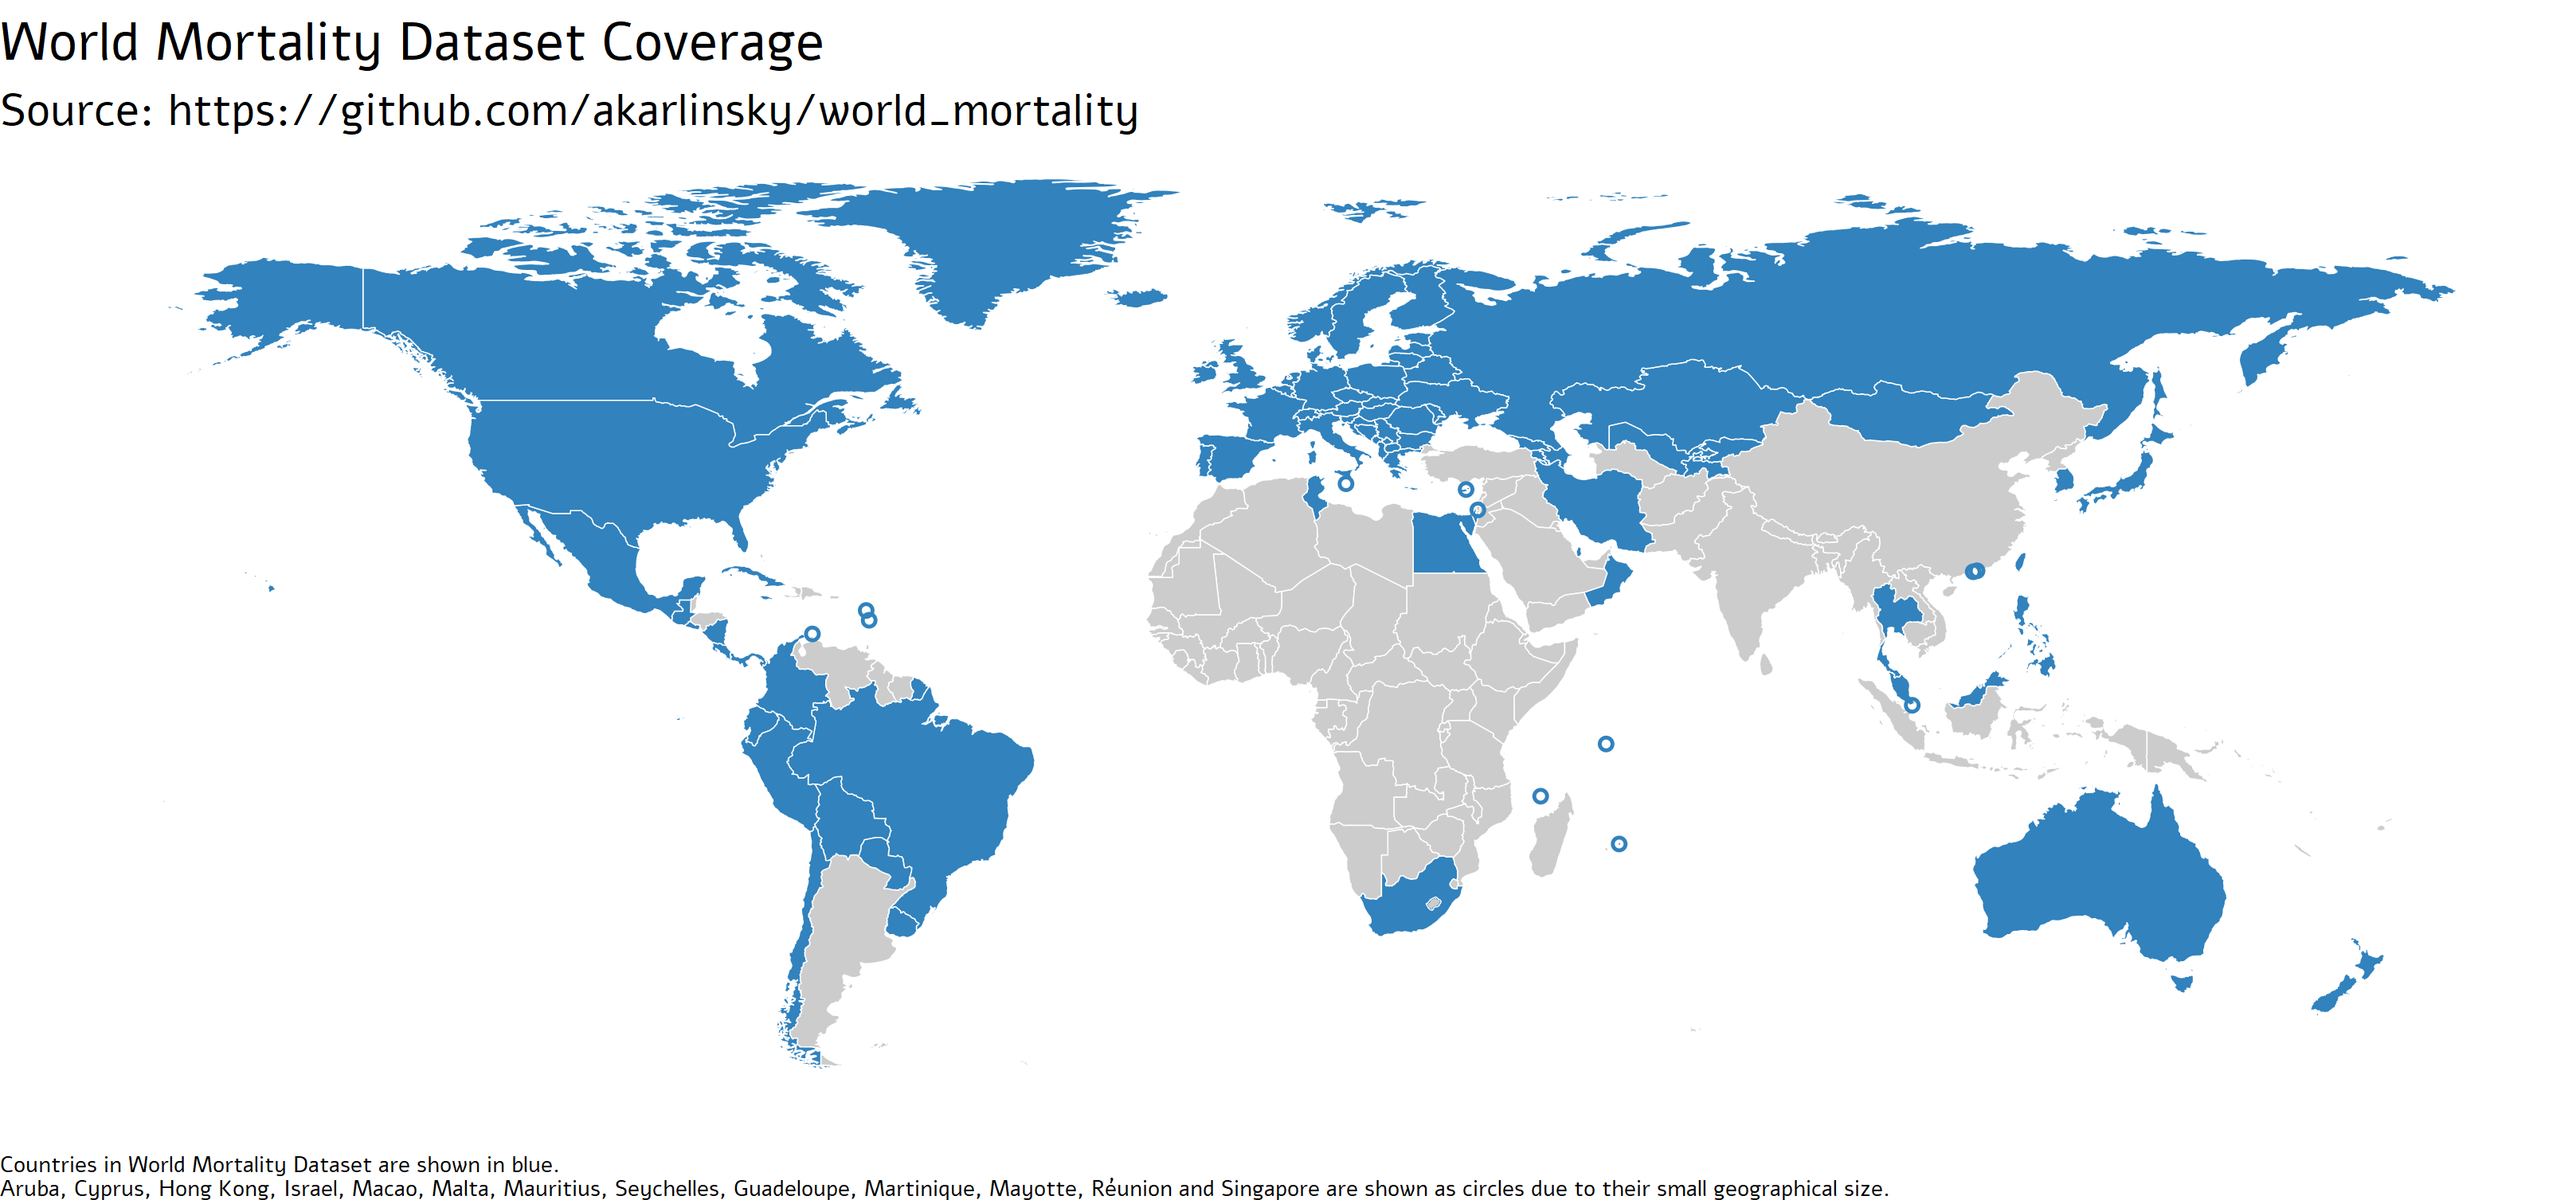
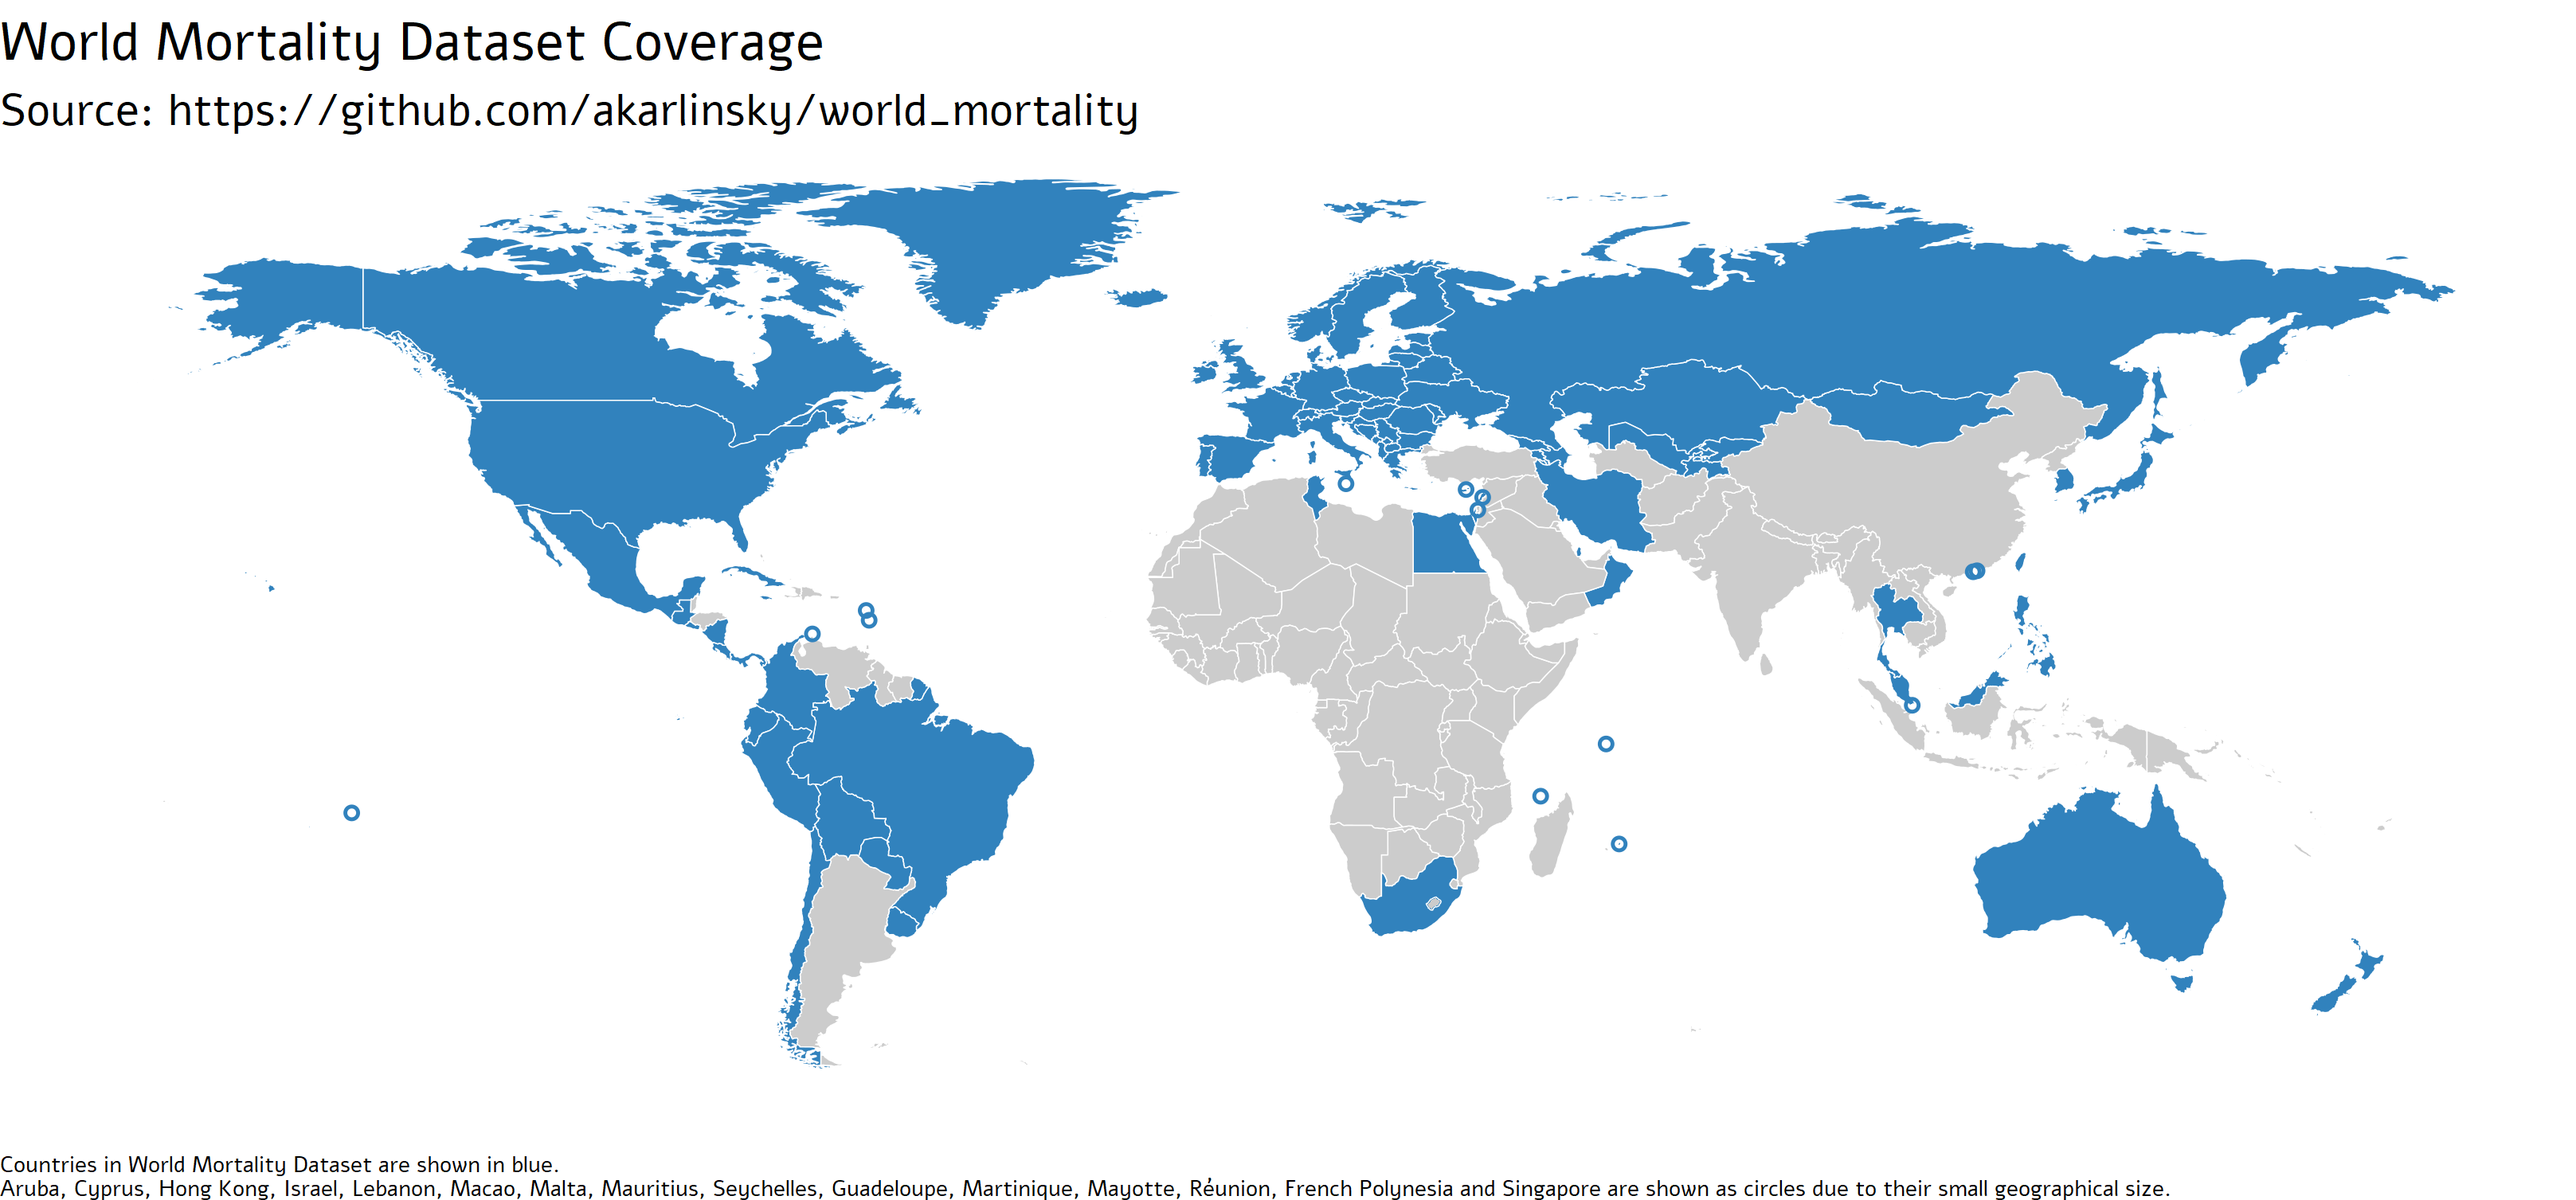
2021-06-29 Update
- New countries: French Polynesia, Lebanon.

- New data: Czechia, Finland, French Guiana, Guadeloupe, Israel, Martinique, Mayotte, Réunion, Transnistria.

- Revisions: Azerbaijan, French Guiana, Guadeloupe, Israel, Martinique, Mayotte, Paraguay, Réunion.

Changed region(s): [[0.1249, 0.9668, 0.8432, 1.0]]

diff --git a/README.md b/README.md
@@ -1,7 +1,7 @@
 # World Mortality Dataset
 
 This repository contains country-level data on all-cause mortality in 2015–2021 collected from various sources, see below.   
-We are currently providing data for 100 countries and territories.   
+We are currently providing data for 102 countries and territories.   
 We welcome any contributions.
 
 ![World Mortality coverage](coverage_map_title_fixed.png)
@@ -87,7 +87,7 @@ Aruba Central Bureau Of Statistics Quarterly Demographic Bulletin 2020: https://
 
 2015 crude death rates were transformed to mortality counts by using the UNDATA Mid-Year Population estimate for Azerbaijan 2015 which is 9,649,000.
 
-2021 Press release provides total deaths in January-February 2021. To transform to monthly counts, we dividied it by the ratio observed in 2020 between these two months. 
+2021 Press release provides total deaths in January-February 2021. To keep the data as monthly, we divided it equally between them. 
 
 ### Belarus (monthly)
 2015 to 2020: UNData - http://data.un.org/Data.aspx?d=POP&f=tableCode%3a65%3bcountryCode%3a112%3brefYear%3a2015%2c2016%2c2017%2c2018%2c2019%2c2020&c=2,3,6,8,10,12,13,14&s=_countryEnglishNameOrderBy:asc,refYear:desc,areaCode:asc&v=1
@@ -168,6 +168,11 @@ https://www.capmas.gov.eg/Pages/Publications.aspx?page_id=5104&Year=23595
 2015 to 2020: Public Information Request by [LAB-DAT](https://lab-dat.com/) from [RNPN](https://www.rnpn.gob.sv/)
 
 
+### French Polynesia (monthly)
+2017 to 2020: https://unstats.un.org/unsd/mbs/app/DataView.aspx?tid=3&cid=258&yearfrom=2015&yearto=2021&p=A
+Crude death rates were transformed to mortality counts by using the respective UNDATA Mid-Year Population estimates. 
+
+
 ### Georgia (monthly)
 2015-2020: Georgia National Office of Statistics (GEOSTAT): https://www.geostat.ge/en/modules/categories/320/deaths  
 
@@ -245,6 +250,15 @@ Thanks to [Mikhail Zelenskiy](https://twitter.com/Zforever) for filling the gaps
 ### Kyrgyzstan (monthly)
 2015 - 2018: UNData: http://data.un.org/Data.aspx?d=POP&f=tableCode%3a65%3bcountryCode%3a417&c=2,3,6,8,10,12,13,14&s=_countryEnglishNameOrderBy:asc,refYear:desc,areaCode:asc&v=1  
 2019 onward: National Statistical Committee of the Kyrgyz Republic - The main results of natural population January - December 2020: http://www.stat.kg/kg/statistics/naselenie/ 
+
+
+### Lebanon (monthly)
+2015 - 2019: [Lebanon Ministry of Public Health Vital Statstics Bulletin Bulletin](https://www.moph.gov.lb/en/Pages/8/327/statistical-bulletins#/en/Pages/8/327/statistical-bulletins)
+
+2017 - 2021: [Lebanon Ministry of Public Health Hospital-based Cause Of Death Notification System](https://www.moph.gov.lb/en/Pages/8/327/statistical-bulletins#/en/Pages/8/20380/hospital-based-cause-of-death-statistics)
+
+2020 - 2021 weekly hospital-deaths data was digitized using [WebPlotDigitizer](https://github.com/ankitrohatgi/WebPlotDigitizer) and then turned to monthly. 
+Monthly hospital deaths have been corrected to total deaths using the ratio between total deaths to hospital deaths in 2019 (1.34). 
 
 
 ### Liechtenstein (monthly)
